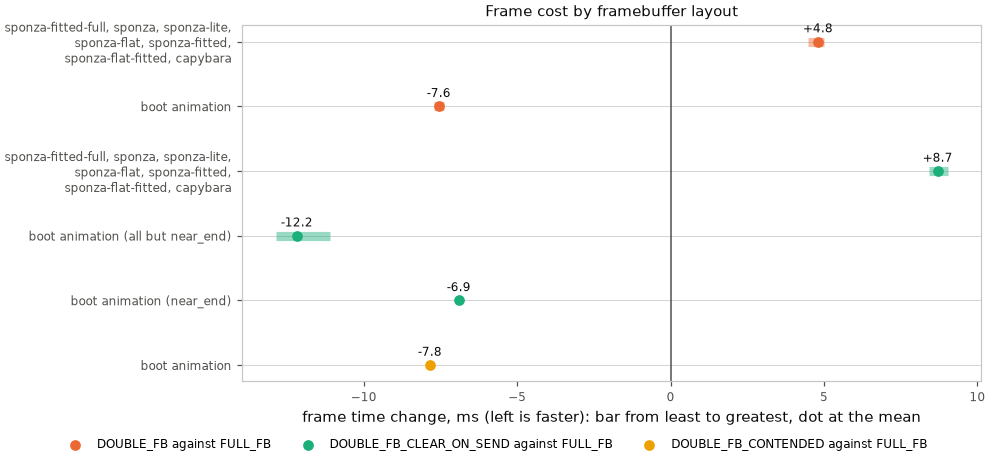
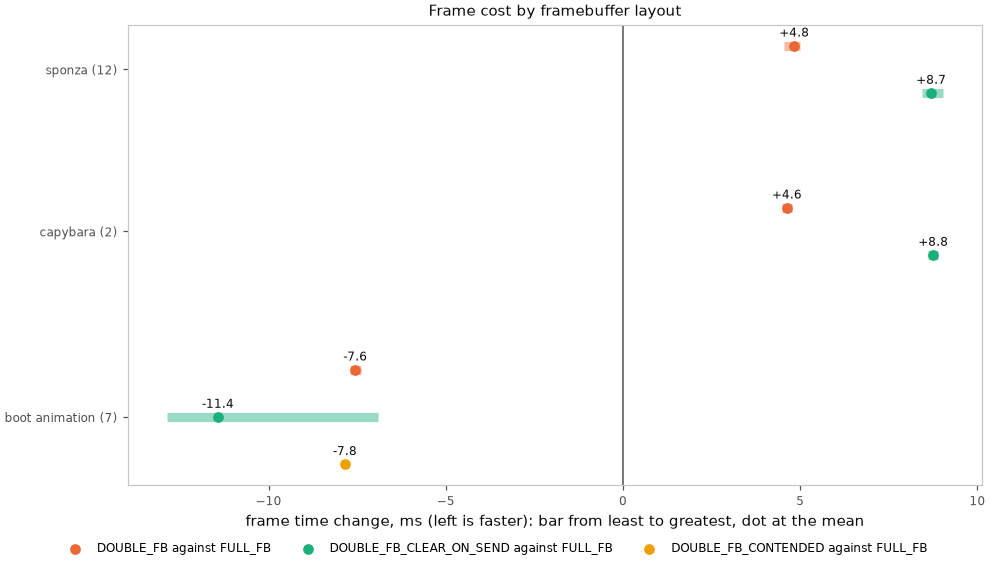
layout_costs: group by scene family, one range bar per layout in each family's band (autana-sr7i9)

diff --git a/launcher/tools/render/layout_costs.py b/launcher/tools/render/layout_costs.py
@@ -1,7 +1,8 @@
 #!/usr/bin/env python3
 """The frame cost of each picture in each framebuffer layout, as a chart and
 the tables in docs/gfx/Targets-and-Modes.md's `gfx-layout-costs` block: one row per
-group of pictures whose change agrees, then every picture in a dropdown.
+scene family and layout, then every picture in a dropdown. A picture's family is
+its scene name up to the first hyphen (sponza-fitted-full, portrait: sponza).
 launcher/tools/render/render_doc_images.sh runs it on the captures kept in
 docs/render/data/.
 
@@ -19,7 +20,6 @@ import argparse
 import pathlib
 import re
 import sys
-import textwrap
 
 ROOT = pathlib.Path(__file__).resolve().parents[3]
 sys.path.insert(0, str(ROOT / "launcher/tools/perf"))
@@ -36,16 +36,13 @@ BOOT_FRAME_PHASE = "Total"
 PERCENT_SCALE = 100
 NOT_RUN = "not run"
 CHART_WIDTH = 9
-GROUP_HEIGHT = 0.5
-LABEL_WIDTH = 40
+BAR_STEP = 0.35  # rows between one family's layout bars
+FAMILY_GAP = 0.5  # rows between families
 RANGE_WIDTH = 6
 RANGE_ALPHA = 0.45
-MEAN_LABEL_GAP = 6  # points above a group's mean dot
+MEAN_LABEL_GAP = 6  # points above a bar's mean dot
 CHART_BASE_HEIGHT = 1.2
 MARKER_SIZE = 36
-# A picture joins a group when its ms change against the same first layout lies
-# within this of the next nearer member's.
-GROUP_GAP_MS = 1.0
 
 MESH_ROW = re.compile(r"\blayout_perf: (?P<scene>[^:\s]+):(?P<layout>\w+):(?P<stage>\w+) mean (?P<mean>\d+)us\b")
 
@@ -100,48 +97,28 @@ def ms_change(costs, layout):
     return costs[layout] - costs[next(iter(costs))]
 
 
+def family(name):
+    """A picture's scene name up to its first hyphen: its variants and
+    orientations share one family."""
+    return name.split(", ")[0].split("-")[0]
+
+
 def groups(rows):
-    """(first layout, layout, rows) for each run of rows whose ms change lies
-    within GROUP_GAP_MS of a neighbour's, by layout, then by first row."""
-    order = list(rows)
-    found = []
-    for layout in layouts_of(rows):
-        by_first = {}
-        for name, costs in rows.items():
-            first = next(iter(costs))
-            if layout in costs and layout != first:
-                by_first.setdefault(first, []).append(name)
-        for first, names in by_first.items():
-            names.sort(key=lambda name: ms_change(rows[name], layout))
-            runs = [[names[0]]]
-            for before, name in zip(names, names[1:]):
-                if ms_change(rows[name], layout) - ms_change(rows[before], layout) > GROUP_GAP_MS:
-                    runs.append([])
-                runs[-1].append(name)
-            runs = [sorted(run, key=order.index) for run in runs]
-            found += [(first, layout, run) for run in sorted(runs, key=lambda run: order.index(run[0]))]
-    return found
-
-
-def pictures(rows, run):
-    """The pictures a run holds; one only partly held names the rows it holds,
-    or the rows it misses when those are fewer."""
-    def split(name):
-        return (name.split(", ", 1) + [""])[:2]
-    held, missing = {}, {}
+    """(family, first layout, layout, rows) for each family, then each layout
+    after the first its rows report, in capture order."""
+    families = {}
     for name in rows:
-        picture, part = split(name)
-        (held if name in run else missing).setdefault(picture, []).append(part)
-    cells = []
-    for picture, parts in held.items():
-        rest = missing.get(picture)
-        if not rest:
-            cells.append(picture)
-        elif len(parts) <= len(rest):
-            cells.append(f"{picture} ({', '.join(parts)})")
-        else:
-            cells.append(f"{picture} (all but {', '.join(rest)})")
-    return ", ".join(cells)
+        families.setdefault(family(name), []).append(name)
+    found = []
+    for name, members in families.items():
+        for layout in layouts_of(rows):
+            by_first = {}
+            for member in members:
+                first = next(iter(rows[member]))
+                if layout in rows[member] and layout != first:
+                    by_first.setdefault(first, []).append(member)
+            found += [(name, first, layout, held) for first, held in by_first.items()]
+    return found
 
 
 def span(values, unit):
@@ -151,17 +128,22 @@ def span(values, unit):
 
 
 def chart(rows, path):
-    """One line per group, a bar from its least to its greatest ms change
-    against the first layout and a dot at its mean, coloured by layout."""
+    """One band per family, a bar per layout from its least to its greatest
+    ms change against the first layout and a dot at its mean."""
     layouts = layouts_of(rows)
     if len(layouts) > len(SLOTS):
         raise ValueError(f"{len(layouts)} layouts, {len(SLOTS)} colours")
     found = groups(rows)
-    figure, axis = subplots(1, 1, (CHART_WIDTH, CHART_BASE_HEIGHT + GROUP_HEIGHT * len(found)))
+    names = list(dict.fromkeys(name for name, _, _, _ in found))
+    height = BAR_STEP * len(found) + FAMILY_GAP * len(names)
+    figure, axis = subplots(1, 1, (CHART_WIDTH, CHART_BASE_HEIGHT + height))
     axis.axvline(0, color=MUTED, linewidth=1)
-    labelled = set()
-    for y, (first, layout, run) in enumerate(found):
-        changes = [ms_change(rows[name], layout) for name in run]
+    labelled, ticks, y = set(), {}, 0.0
+    for index, (name, first, layout, held) in enumerate(found):
+        if index and found[index - 1][0] != name:
+            y += FAMILY_GAP
+        ticks.setdefault(name, []).append(y)
+        changes = [ms_change(rows[member], layout) for member in held]
         colour = SLOTS[layouts.index(layout)]
         label = None if layout in labelled else f"{layout} against {first}"
         labelled.add(layout)
@@ -170,8 +152,9 @@ def chart(rows, path):
         axis.scatter([mean], [y], s=MARKER_SIZE, color=colour, label=label, zorder=2)
         axis.annotate(f"{mean:+.1f}", (mean, y), xytext=(0, MEAN_LABEL_GAP), textcoords="offset points",
                       ha="center", fontsize=8, color=INK)
-        axis.axhline(y, color=FAINT, linewidth=0.5, zorder=0)
-    axis.set_yticks(range(len(found)), [textwrap.fill(pictures(rows, run), LABEL_WIDTH, break_on_hyphens=False) for _, _, run in found])
+        y += BAR_STEP
+    axis.set_yticks([sum(at) / len(at) for at in ticks.values()],
+                    [f"{name} ({sum(family(row) == name for row in rows)})" for name in ticks])
     axis.invert_yaxis()
     axis.set_xlabel("frame time change, ms (left is faster): bar from least to greatest, dot at the mean", color=INK)
     style_axes(axis, "Frame cost by framebuffer layout")
@@ -180,16 +163,16 @@ def chart(rows, path):
 
 
 def table(rows, chart_name):
-    """The groups, one row each with its ms and percent ranges; then, in a
+    """A row per family and layout with its ms and percent ranges; then, in a
     dropdown, one row per picture, one column per layout, each cell after a
     row's first layout giving its change against that first one."""
     layouts = layouts_of(rows)
     lines = [f"![Frame cost by framebuffer layout](../images/render/{chart_name})", "",
-             "| Layout | Against | Pictures | Change, ms | Change |", "|---|---|---|---|---|"]
-    for first, layout, run in groups(rows):
-        lines.append(f"| `{layout}` | `{first}` | {pictures(rows, run)} "
-                     f"| {span([ms_change(rows[name], layout) for name in run], '')} "
-                     f"| {span([change(rows[name], layout) for name in run], '%')} |")
+             "| Scene | Pictures | Layout | Against | Change, ms | Change |", "|---|---|---|---|---|---|"]
+    for name, first, layout, held in groups(rows):
+        lines.append(f"| {name} | {len(held)} | `{layout}` | `{first}` "
+                     f"| {span([ms_change(rows[member], layout) for member in held], '')} "
+                     f"| {span([change(rows[member], layout) for member in held], '%')} |")
     lines += ["", "<details><summary>Every picture</summary>", "",
               "| Picture | " + " | ".join(f"`{layout}`" for layout in layouts) + " |",
              "|---|" + "---|" * len(layouts)]
@@ -206,8 +189,7 @@ def table(rows, chart_name):
         lines.append(f"| {row} | " + " | ".join(cells) + " |")
     lines += ["", "</details>"]
     note = ("\nBoard ms per frame, mean of each suite's samples. A change is against the "
-            "first layout its row reports; a group holds the pictures whose ms change lies "
-            f"within {GROUP_GAP_MS:.1f} ms of the next nearer one's.")
+            "first layout its row reports; a scene row spans its variants and orientations.")
     return "\n".join(lines) + "\n" + note
 
 

diff --git a/launcher/tools/tests/test_layout_costs.py b/launcher/tools/tests/test_layout_costs.py
@@ -39,9 +39,9 @@ class LayoutCostsTests(unittest.TestCase):
         self.assertEqual(list(rows), ["room, portrait", "room, landscape", "boot animation, swell"])
         lines = layout_costs.table(rows, "chart.png").splitlines()
         self.assertEqual(lines[0], "![Frame cost by framebuffer layout](../images/render/chart.png)")
-        self.assertEqual(lines[4], "| `LAYOUT_B` | `LAYOUT_A` | room (portrait) | +4.0 | +10% |")
-        self.assertEqual(lines[5], "| `LAYOUT_B` | `LAYOUT_A` | boot animation | -3.0 | -10% |")
-        self.assertEqual(lines[6], "| `LAYOUT_C` | `LAYOUT_A` | boot animation | +3.0 | +10% |")
+        self.assertEqual(lines[4], "| room | 1 | `LAYOUT_B` | `LAYOUT_A` | +4.0 | +10% |")
+        self.assertEqual(lines[5], "| boot animation | 1 | `LAYOUT_B` | `LAYOUT_A` | -3.0 | -10% |")
+        self.assertEqual(lines[6], "| boot animation | 1 | `LAYOUT_C` | `LAYOUT_A` | +3.0 | +10% |")
         every = lines[lines.index("<details><summary>Every picture</summary>") + 2:]
         self.assertEqual(every[0], "| Picture | `LAYOUT_A` | `LAYOUT_B` | `LAYOUT_C` |")
         self.assertEqual(every[2], "| room, portrait | 40.0 | 44.0 (+10%) | not run |")
@@ -50,12 +50,14 @@ class LayoutCostsTests(unittest.TestCase):
         self.assertEqual(every[6], "</details>")
         self.assertTrue(lines[-1].startswith("Board ms per frame"))
 
-    def test_a_group_chains_changes_within_the_gap(self):
-        gap = layout_costs.GROUP_GAP_MS
-        rows = {"a, 1": {"A": 10.0, "B": 12.0}, "b, 1": {"A": 20.0, "B": 22.0 + gap},
-                "a, 2": {"A": 30.0, "B": 32.0 + 2 * gap}, "b, 2": {"A": 40.0, "B": 42.0 + 4 * gap}}
-        self.assertEqual(layout_costs.groups(rows), [("A", "B", ["a, 1", "b, 1", "a, 2"]), ("A", "B", ["b, 2"])])
-        self.assertEqual(layout_costs.pictures(rows, ["a, 1", "b, 1", "a, 2"]), "a, b (1)")
+    def test_a_family_groups_a_scenes_variants_and_orientations(self):
+        self.assertEqual(layout_costs.family("hall-lit-full, portrait"), "hall")
+        self.assertEqual(layout_costs.family("boot animation, swell"), "boot animation")
+        rows = {"hall, portrait": {"A": 10.0, "B": 12.0}, "yard, portrait": {"A": 20.0, "B": 21.0},
+                "hall-lit, landscape": {"A": 30.0, "B": 35.0}}
+        self.assertEqual(layout_costs.groups(rows), [("hall", "A", "B", ["hall, portrait", "hall-lit, landscape"]),
+                                                     ("yard", "A", "B", ["yard, portrait"])])
+        self.assertIn("| hall | 2 | `B` | `A` | +2.0 to +5.0 | +17% to +20% |", layout_costs.table(rows, "c.png"))
 
     def test_captures_must_share_one_build(self):
         mesh = self.write("mesh.log", MESH)

diff --git a/docs/gfx/Targets-and-Modes.md b/docs/gfx/Targets-and-Modes.md
@@ -68,22 +68,23 @@ Each picture's frame cost on the board, from one build, in `FULL_FB`,
 each sent frame, so the draw skips its clear; in `_CONTENDED` a send runs
 during the whole draw, so both share PSRAM. Not run: the suite has no such pass.
 
-A layout costs about the same ms whatever the picture, so the groups below share
-one ms range while their percentages spread. The r3d scenes draw in `update()`
+A layout costs about the same ms whatever the picture, so each scene's rows below
+share one narrow ms range while their percentages spread. The r3d scenes draw in `update()`
 and pay for the second framebuffer; the boot animation draws a full frame in
 `frame()` and saves about as much.
 
-<!-- generated: gfx-layout-costs sha256=f95c91ad4cd936e45d9ebdc0dc1dee0675db8147fef44a50331fb11f212d9235 -->
+<!-- generated: gfx-layout-costs sha256=dee6ea381d6a3222951b670c9e795a1fa0dea175616174c11118f4821884975e -->
 ![Frame cost by framebuffer layout](../images/render/gfx-layout-costs.png)
 
-| Layout | Against | Pictures | Change, ms | Change |
-|---|---|---|---|---|
-| `DOUBLE_FB` | `FULL_FB` | sponza-fitted-full, sponza, sponza-lite, sponza-flat, sponza-fitted, sponza-flat-fitted, capybara | +4.5 to +5.0 | +12% to +35% |
-| `DOUBLE_FB` | `FULL_FB` | boot animation | -7.7 to -7.4 | -35% to -17% |
-| `DOUBLE_FB_CLEAR_ON_SEND` | `FULL_FB` | sponza-fitted-full, sponza, sponza-lite, sponza-flat, sponza-fitted, sponza-flat-fitted, capybara | +8.4 to +9.0 | +20% to +65% |
-| `DOUBLE_FB_CLEAR_ON_SEND` | `FULL_FB` | boot animation (all but near_end) | -12.9 to -11.1 | -43% to -29% |
-| `DOUBLE_FB_CLEAR_ON_SEND` | `FULL_FB` | boot animation (near_end) | -6.9 | -31% |
-| `DOUBLE_FB_CONTENDED` | `FULL_FB` | boot animation | -7.9 to -7.8 | -35% to -18% |
+| Scene | Pictures | Layout | Against | Change, ms | Change |
+|---|---|---|---|---|---|
+| sponza | 12 | `DOUBLE_FB` | `FULL_FB` | +4.6 to +5.0 | +12% to +15% |
+| sponza | 12 | `DOUBLE_FB_CLEAR_ON_SEND` | `FULL_FB` | +8.4 to +9.0 | +20% to +27% |
+| capybara | 2 | `DOUBLE_FB` | `FULL_FB` | +4.5 to +4.8 | +31% to +35% |
+| capybara | 2 | `DOUBLE_FB_CLEAR_ON_SEND` | `FULL_FB` | +8.6 to +8.9 | +60% to +65% |
+| boot animation | 7 | `DOUBLE_FB` | `FULL_FB` | -7.7 to -7.4 | -35% to -17% |
+| boot animation | 7 | `DOUBLE_FB_CLEAR_ON_SEND` | `FULL_FB` | -12.9 to -6.9 | -43% to -29% |
+| boot animation | 7 | `DOUBLE_FB_CONTENDED` | `FULL_FB` | -7.9 to -7.8 | -35% to -18% |
 
 <details><summary>Every picture</summary>
 
@@ -113,7 +114,7 @@ and pay for the second framebuffer; the boot animation draws a full frame in
 
 </details>
 
-Board ms per frame, mean of each suite's samples. A change is against the first layout its row reports; a group holds the pictures whose ms change lies within 1.0 ms of the next nearer one's.
+Board ms per frame, mean of each suite's samples. A change is against the first layout its row reports; a scene row spans its variants and orientations.
 <!-- /generated: gfx-layout-costs -->
 
 Regenerate with
